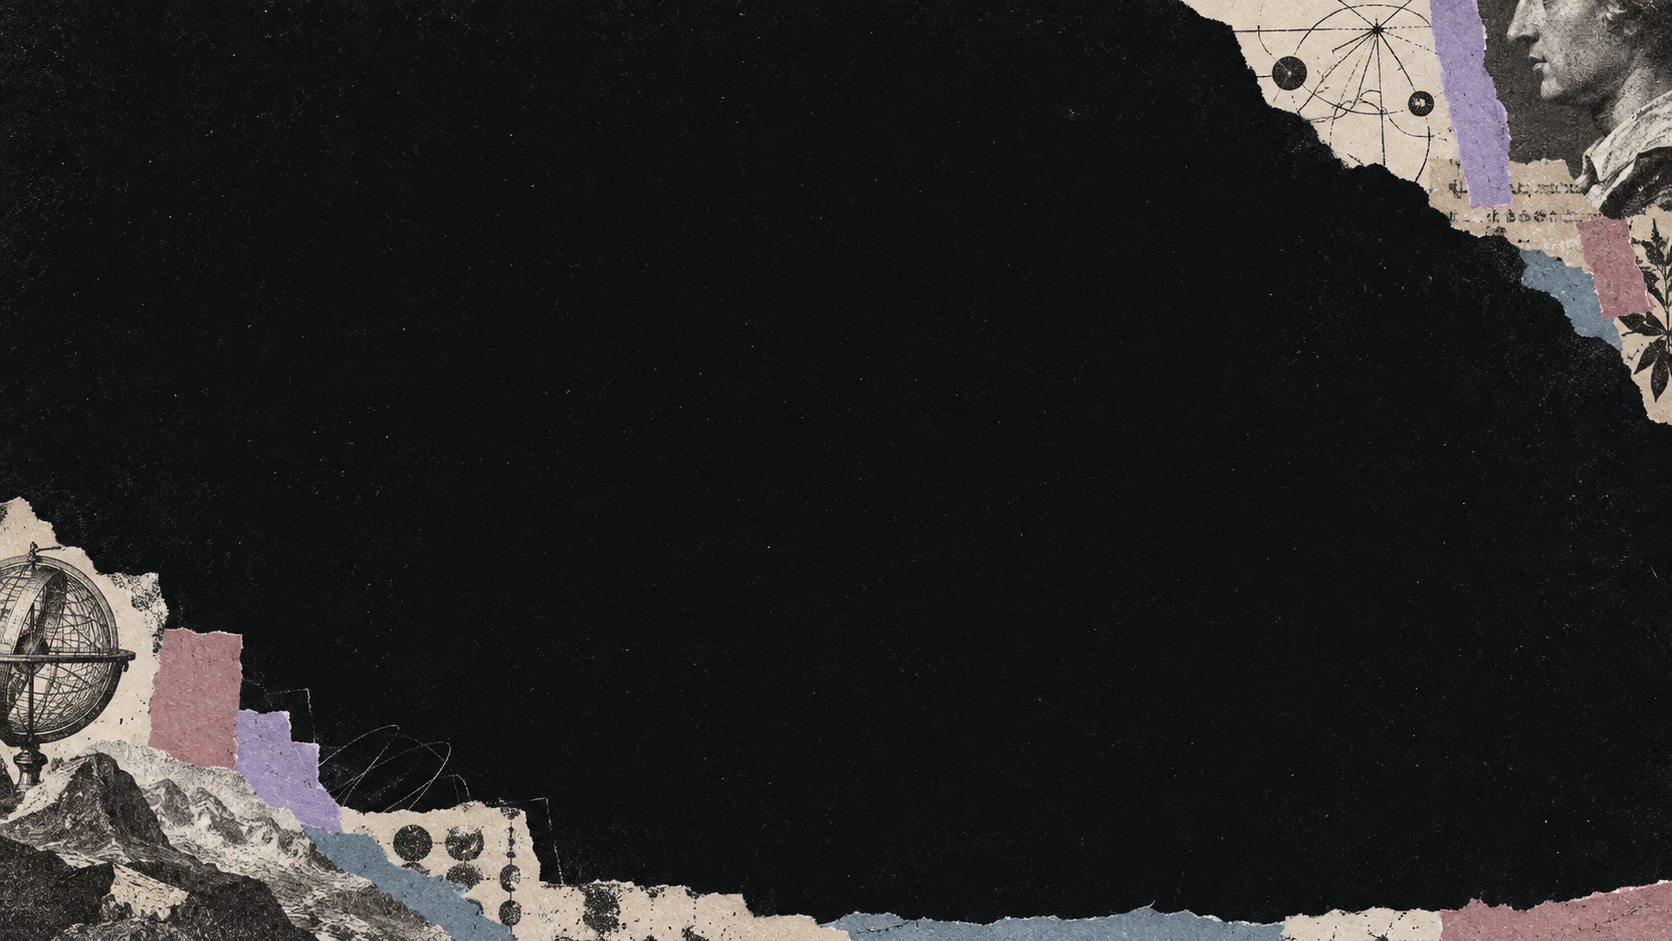
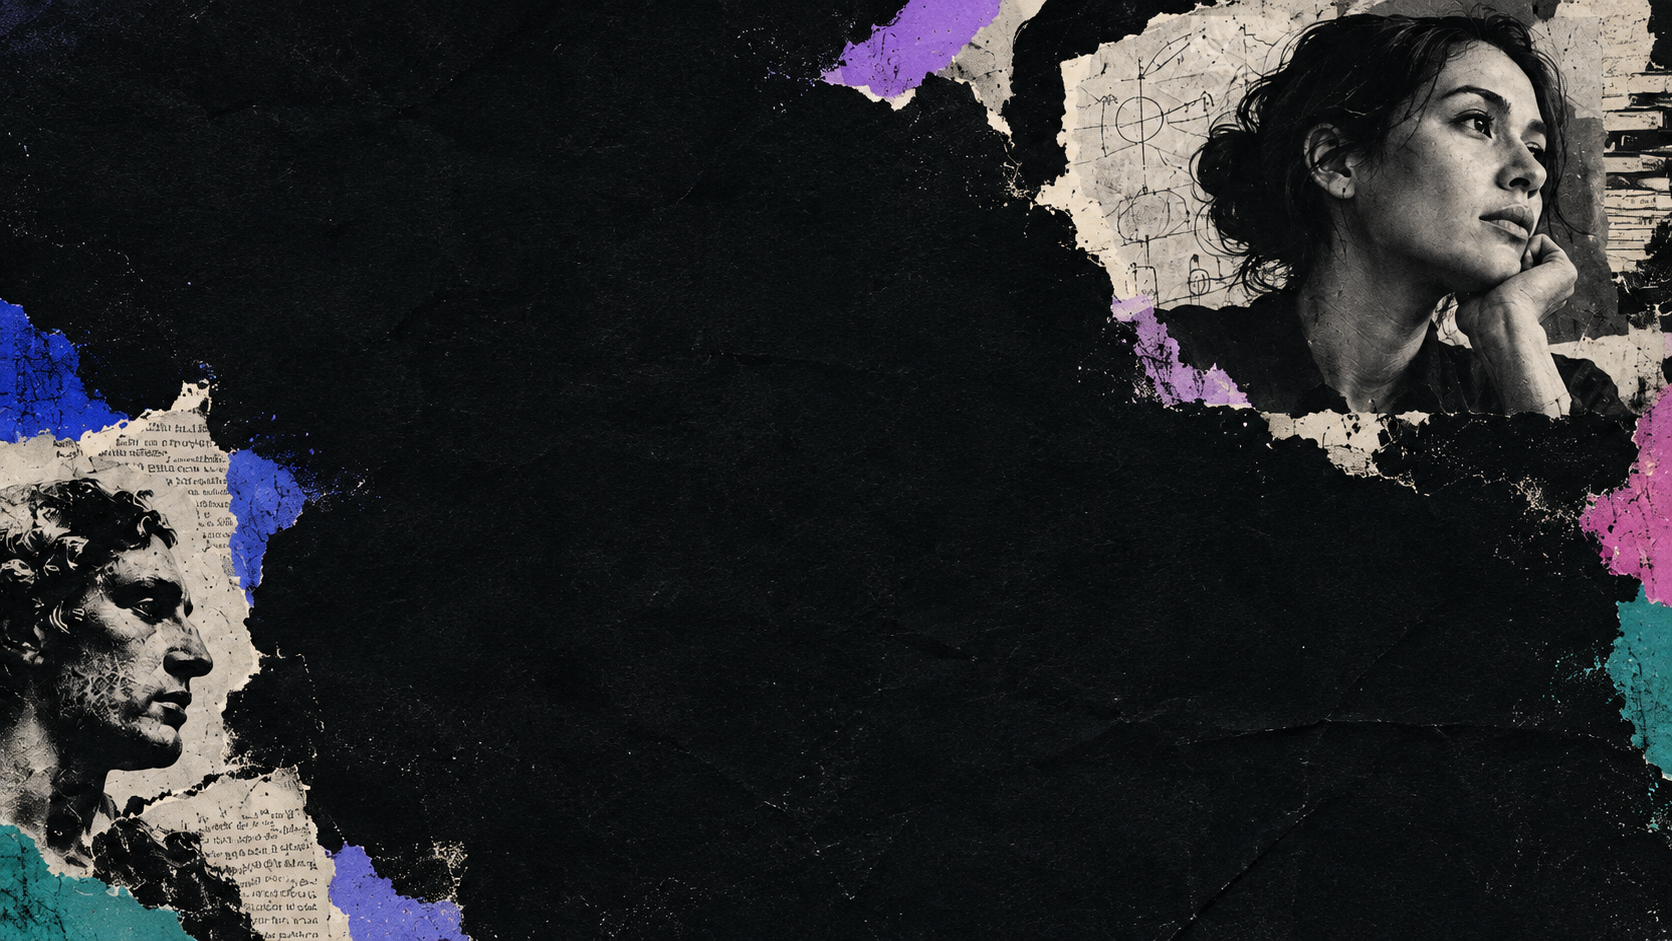
fix(client): activate Skills browser bundle and restore portrait styling

diff --git a/packages/client/ui-skill/src/client/SkillsPanel.tsx b/packages/client/ui-skill/src/client/SkillsPanel.tsx
@@ -147,7 +147,7 @@ export function SkillsPanel({ appPanels, workspaces, sessions, api, t }: SkillsP
   const formField = (label: string, key: keyof SkillFields, multiline = false) => <label>{label}{multiline ? <textarea value={fields.value?.[key] ?? ''} rows={key === 'instructions' ? 18 : 3} onChange={(event) => { changeField(key, event.target.value) }} /> : <input value={fields.value?.[key] ?? ''} onChange={(event) => { changeField(key, event.target.value) }} list={key === 'category' ? 'skill-categories' : undefined} />}</label>
 
   return <section className={css.panel} hidden={active !== 'skills'} data-skills-panel aria-label={t('title')} onKeyDown={(event) => { if ((event.ctrlKey || event.metaKey) && event.key.toLowerCase() === 's') { event.preventDefault(); if (dirty) void save() } }}>
-    <header className={css.header}><div><small>{t('subtitle')}</small><h1>{t('title')}</h1></div><label>{t('workspace')}<select value={workspaceId ?? ''} disabled={busy} onChange={(event) => { switchWorkspace(event.target.value as WorkspaceId) }}><option value="" disabled>{t('chooseWorkspace')}</option>{workspaceState.items.map(item => <option key={item.workspaceId} value={item.workspaceId}>{item.title}</option>)}</select></label><button type="button" disabled={busy || workspaceId === undefined} onClick={() => { void refresh() }}>{t('refresh')}</button><button className={css.primary} type="button" disabled={workspaceId === undefined || busy} onClick={() => { setCreating(true) }}>{t('create')}</button></header>
+    <header className={css.header}><div className={css.titleLockup}><span className={css.titleMark} aria-hidden="true">03</span><div><h1>{t('title')}</h1><small>{t('subtitle')}</small></div></div><label>{t('workspace')}<select value={workspaceId ?? ''} disabled={busy} onChange={(event) => { switchWorkspace(event.target.value as WorkspaceId) }}><option value="" disabled>{t('chooseWorkspace')}</option>{workspaceState.items.map(item => <option key={item.workspaceId} value={item.workspaceId}>{item.title}</option>)}</select></label><button type="button" disabled={busy || workspaceId === undefined} onClick={() => { void refresh() }}>{t('refresh')}</button><button className={css.primary} type="button" disabled={workspaceId === undefined || busy} onClick={() => { setCreating(true) }}>{t('create')}</button></header>
     {error !== '' && <p className={css.error} role="alert">{error}</p>}
     <div className={css.workbench}>
       <aside className={css.index}><input aria-label={t('search')} placeholder={t('search')} value={query} onChange={(event) => { setQuery(event.target.value) }} /><div className={css.filters}><select aria-label={t('scope')} value={scope} onChange={(event) => { setScope(event.target.value) }}>{(['all', 'project', 'personal', 'other'] as const).map(value => <option key={value} value={value}>{t(value)}</option>)}</select><select aria-label={t('invocation')} value={invocation} onChange={(event) => { setInvocation(event.target.value) }}><option value="all">{t('all')}</option>{modes.map(mode => <option key={mode} value={mode}>{t(mode)}</option>)}</select><select aria-label={t('category')} value={category} onChange={(event) => { setCategory(event.target.value) }}><option value="all">{t('all')}</option>{categories.map(value => <option key={value} value={value}>{value}</option>)}<option value="">{t('uncategorized')}</option></select><select aria-label={t('grouped')} value={grouped ? 'grouped' : 'flat'} onChange={(event) => { setGrouped(event.target.value === 'grouped') }}><option value="grouped">{t('grouped')}</option><option value="flat">{t('flat')}</option></select></div><p className={css.count}>{t('count', { count: visible.length, groups: new Set(visible.map(item => item.category)).size })}</p>

diff --git a/packages/client/ui-skill/src/client/SkillsPanel.module.css b/packages/client/ui-skill/src/client/SkillsPanel.module.css
@@ -2,8 +2,8 @@
   --skill-ink: #101416;
   --skill-surface: #191f22;
   --skill-paper: #e9dfce;
-  --skill-accent: #58b9ac;
-  --skill-brass: #d3ad6b;
+  --skill-accent: #87c9b4;
+  --skill-brass: #d9adbd;
   --skill-error: #f3a99a;
   --skill-muted: #a4b3b0;
   --skill-line: rgb(190 213 207 / 19%);
@@ -14,7 +14,7 @@
   overflow: hidden;
   container-type: inline-size;
   color: var(--skill-paper);
-  background: var(--skill-ink) url('./assets/workbench-collage.png') center / cover;
+  background: radial-gradient(ellipse at 12% 0%, rgb(115 143 197 / 23%), transparent 55%), radial-gradient(ellipse at 90% 100%, rgb(171 108 139 / 20%), transparent 55%), var(--skill-ink) url('./assets/workbench-collage.png') center / cover;
   font: 14px/1.5 var(--dsw-font-family, sans-serif);
 }
 .panel[hidden] { display: none; }
@@ -31,7 +31,9 @@
 .header { display: flex; align-items: center; gap: 16px; padding: 24px 28px; min-height: 118px; background: linear-gradient(90deg, var(--skill-ink) 30%, transparent); }
 .header > div { flex: 1; }
 .header small { letter-spacing: .13em; color: var(--skill-accent); }
-.header h1 { margin: 0; font-size: 32px; letter-spacing: .06em; line-height: 1.25; }
+.header h1 { margin: 0; font-size: 24px; letter-spacing: .02em; line-height: 1.25; }
+.titleLockup { display: flex; align-items: center; gap: 12px; }
+.titleMark { display: grid; place-items: center; flex: 0 0 38px; height: 38px; border: 1px solid rgb(233 223 206 / 30%); border-radius: 12px; color: var(--skill-ink); background: linear-gradient(135deg, #87c9b4, #9baed8 65%, #d9adbd); font-weight: 800; }
 .header > label { max-width: 240px; font-size: 11px; }
 .panel .primary { color: var(--skill-ink); background: var(--skill-accent); border-color: var(--skill-accent); font-weight: 700; }
 .workbench { display: grid; grid-template-columns: minmax(220px, 25%) minmax(155px, 18%) minmax(300px, 1fr); gap: 10px; margin: 0 22px 28px; min-height: 0; flex: 1; }

diff --git a/packages/client/ui-experts/src/client/ExpertsPanel.module.css b/packages/client/ui-experts/src/client/ExpertsPanel.module.css
@@ -39,9 +39,10 @@
 }
 
 .panel::before {
-  background-image: url('./assets/common-room-collage.png');
-  background-position: center;
-  background-size: cover;
+  background-image: radial-gradient(ellipse at 80% 10%, rgb(151 127 195 / 18%), transparent 55%), radial-gradient(ellipse at 10% 85%, rgb(91 162 151 / 16%), transparent 50%), url('./assets/common-room-collage.png');
+  background-position: center, center, right top;
+  background-size: cover, cover, auto 100%;
+  background-repeat: no-repeat;
   opacity: .9;
 }
 
@@ -137,7 +138,7 @@
 
 .panel[hidden] { display: none; }
 .panel :focus-visible { outline: 2px solid var(--acid); outline-offset: 3px; }
-.collectionHero { padding: 20px; border-radius: 12px; background: rgb(16 20 22 / 90%); }
+.collectionHero { padding: 20px; border-radius: 12px; background: linear-gradient(100deg, rgb(16 20 22 / 94%) 20%, rgb(30 27 41 / 70%) 60%, rgb(16 20 22 / 12%)); }
 .collectionHero h1 span { text-shadow: none; }
 .giantAdd { border: 1px solid var(--line); box-shadow: 0 4px 18px rgb(0 0 0 / 18%); transform: none; }
 .giantAdd:hover { transform: translateY(-2px); box-shadow: 0 6px 20px rgb(0 0 0 / 24%); }

diff --git a/packages/client/ui-skill/tsdown.config.ts b/packages/client/ui-skill/tsdown.config.ts
@@ -1,3 +1,10 @@
+import { createRequire } from 'node:module'
+import { dirname, join } from 'node:path'
 import { clientBundle } from '../tsdown.client.ts'
 
-export default clientBundle('@deepseek-ai/dsh-client-ui-skill', ['lib/types/index.js'])
+const configure = clientBundle('@deepseek-ai/dsh-client-ui-skill', ['lib/types/index.js'])
+const browserYaml = join(dirname(createRequire(import.meta.url).resolve('yaml/package.json')), 'browser/index.js')
+
+// Pin YAML's browser implementation; the Host parser retains its Node export.
+export default (options: Parameters<typeof configure>[0]) => configure(options).map(config =>
+  config.platform === 'browser' ? { ...config, alias: { yaml: browserYaml } } : config)

diff --git a/.agents/notes/implemented/2026-09-09-skills-panel.md b/.agents/notes/implemented/2026-09-09-skills-panel.md
@@ -1,5 +1,7 @@
 # Skills page and collage backgrounds
 
+Owner refinement and live verification: Skills retains its workbench layout and now uses the sibling pages' numbered title lockup with sage, slate blue, and dusty rose accents. Experts retains its layout and restores option B's grayscale portrait and torn-paper direction using a generated background derived from the saved references. The image aligns to the right so the upper-right portrait remains visible when the Files dock narrows the page; translucent iris and teal washes preserve reading contrast. The Skills browser bundle explicitly resolves YAML's browser entry, preventing its Node export from requesting `process` in the browser. The actual launch checkout passed a full production build, the browser-to-disk e2e, and authenticated live file-read and create-dialog checks with no page errors. The last background-alignment adjustment passed its leaf bundle build. Production dependency audit still reports the existing 38 advisories (18 high, 19 moderate, one low).
+
 Live activation follow-up: the user's `deepseek` PowerShell alias resolves to `C:/Projects/deepseek-harness/scripts/web.ps1`, which serves that checkout's built artifacts. Fast-forwarding `master` in another worktree does not update that running checkout. The feature was therefore applied to the actual launch checkout with a reviewed three-way file merge preserving its pre-existing edits and index. Browser fixtures now live under `apps/web/tests/fixtures/skills-panel` and follow the existing Web e2e exclusions from the production TypeScript program; including them in the Client aggregate incorrectly pulled Host filesystem sources across compiler boundaries. The relocated browser-to-disk test passed in the launch checkout.
 
 Final review also aligned inventory invocation flags with the filesystem provider's existing legacy boolean grammar and rejects invalid skill names. All five storage tests and the Host leaf build passed after this change. Legacy non-boolean YAML spellings remain editable through Source; the structured editor requires canonical YAML booleans.
